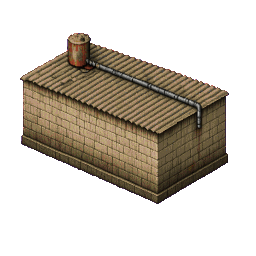
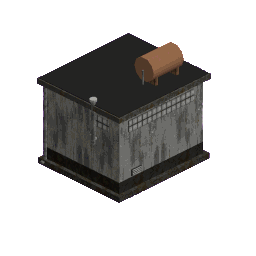
Sprchy: betonovy domek zvenku, jedna spolecna mistnost uvnitr
Zvenku byly sprchy otevrena budka z prken pro tri kabinky, uvnitr pritom pekna
kachlikova mistnost - nesedelo to k sobe. Ted je to sedy betonovy domek postaveny podle
mistnosti uvnitr (3,6 x 3,2 m): brizolitova omitka se zatekanim, tmavy sokl, plocha
betonova strecha s lepenkou a nadrzi na teplou vodu, pas luxferu pod strechou nad
kabinkami a ctverec luxferu z boku, zelene plechove dvere s dratenym sklem, smaltovana
cedule SPRCHY, zarovka v kosiku nad dvermi, kourovod od bojleru, okap, venkovni kohoutek
s kyblem a lavorem. Textury luxferu a omitky z Groku, sprity do Builderu (zepredu i
zezadu) podle noveho modelu.

Uvnitr uz zadne tri pohledy prepinane pres A/D: jedna spolecna mistnost pro vsechny
sprchy, A/D jen otaci hlavou; pres luxfery ve dne prosvita svetlo, zarovka u stropu;
mista k uklidu jsou vsechna dosazitelna od dveri (blockclean: vse uklizeno z jednoho mista).

diff --git a/PRODUCT.md b/PRODUCT.md
@@ -58,8 +58,14 @@ you look over your shoulder: one guest too many on the map, staff procedures tha
 | Builder with isometric map, guests walking on it | ✅ | the "extra guest" uncanny event; `crt_map_panel.gd` draws the ground and buildings once into a static layer and only the living things each frame; smooth zoom at the cursor, pan inertia, minimap (click to go), hover card, dust puffs; undo (Ctrl+Z or the toolbar) takes back today's builds with a full refund; `builder_module.gd`: Grok splash, flat cool toolbar, sliding catalogue cards, info card |
 | Economy, power/water/sewage/waste balance | 🟡 | numbers want a balance pass |
 | Guest needs, moods, activities, reviews | ✅ | six archetypes (Quiet Guy, Drunk, Cheap Chick, Tramps, Family, Mushroom Pickers) with different needs and favourite facilities; bookings arrive as letters in their own voice |
-| Visible guest agents in the 3D camp | ✅ | |
+| Visible guest agents in the 3D camp | ✅ | they open the door and step in and out of the buildings (`scripts/attractions/door_anim.gd`); a family is one figure per two (the sprite is a father and his boy) |
+| Guests using the places | ✅ | the campfire (`scripts/attractions/campfire.gd`: fuel that burns down, logs thrown on, sparks and smoke, guests on the benches drinking, sausages on sticks, the tramp's guitar), the lake slide (`slide_ride.gd`: queue, climb, slide, splash, wade out), the nohejbal court (`pitch_play.gd`: juggling alone, a rally over the net, a missed ball fetched), and indoors the pub, bistro and Jednota (`scripts/food/service_life.gd`: at the tables and on the bar stools with mugs and plates, browsing the racks) |
+| Counter minigames for extra money | ✅ | click the tap, the pass or the till in the room (`scripts/food/`): the pub tap (left pulls beer, right pushes foam; hladinka / snyt / mliko by the guest's taste; a tip for a proper pour, sent back when wrong), the bistro pass (tickets with pictures of the plate, plates from the stack, the bell; a tip when quick), the Jednota till (key the total, the crank, count the change from the drawer; no overcharging, undercharging and extra change are the camp's loss); only for the guests the simulation has inside, on top of the passive takings (`orders.gd`) |
+| Lodging numbers | ✅ | per kind (tents 1, 2.., cabins 1.., caravans 1..): T1 / C2 / V1 on the key fobs (coloured by kind), the TAB plan and the Builder badges; in the camp a board on a stake in front of each tent and a blue enamel plate by the door of each cabin and caravan (`scripts/lodging_signs.gd`); a cabin or caravan is let whole (its free beds are not free) |
+| Caravan (2x1) | ✅ | Lv1 2 beds / Lv2 3 / Lv3 4 (upgrades from the brochure inside): the cheapest bed with a roof and the most beds per tile, but less comfort than a cabin, needs power, wears faster; model after the Builder sprites (awning, chairs and table, fairy lights, aerial, steps, twin axle); inside the dinette that makes up into the bed, kitchenette, bunks (`scripts/caravan_interior.gd`) |
+| Arrivals on screen | ✅ | dotted rings at the right edge, one per party on the way, filling as they come; green and breathing at the barrier with a red ring of patience (`scripts/ui/arrival_rings.gd`) |
 | Upkeep: wear, breakdowns, service/repair (hold R), crew | ✅ | Camp Status > Upkeep; toilet and shower blocks are cleaned and fixed by hand inside |
+| Shower house | ✅ | a concrete block (`building_models._showers`): grey roughcast, a strip of glass blocks over the cubicles, a green steel door with the SPRCHY plate and a caged bulb, the hot-water tank on the flat roof, the boiler's flue, a tap with a bucket outside; inside one shared room for all three showers (A/D turn the head, no sub-rooms), the daylight through the glass blocks; Builder sprites front and back from the model |
 | Electricity bills, power cut, UPS game over | ✅ | |
 | Weather cycle (7 states) with gameplay effect | ✅ | rain closes outdoor attractions; the red anomaly at night |
 | Camp Status > Reviews | ✅ | |
@@ -106,7 +112,7 @@ you look over your shoulder: one guest too many on the map, staff procedures tha
 | Reception building | ✅ | built from the office's plan (`scripts/reception/reception_layout.gd`): plank cabin, porch, RECEPCE sign, the door and both windows where they are inside; windows glow at night with the lights on |
 | Curtains, desk lamp, daylight | ✅ | `scripts/reception/curtain.gd` in the office and the back room (whose window looks out over the gate lane, a second portal); the green desk lamp switches; a sun beam with shadows through the office window |
 | Phone | ✅ | modelled after its close-up; a key lifts the handset; incoming calls ring in the room and outside, CALL on the display |
-| Toilets | ✅ | two single stalls as outside, a proper bowl in each; scrubbing close-up (`scripts/scrub_minigame.gd`): the filth wears off where you drag the brush, CLEAN %, flush, SPOTLESS |
+| Toilets | ✅ | two single stalls as outside, each behind its own door: you go into the one whose door you walk up to (no A/D between them); scrubbing close-up (`scripts/scrub_minigame.gd`): the filth wears off where you drag the brush, CLEAN %, flush, SPOTLESS |
 | Reception (CRT, radio, light switch, phone, noticeboard) | ✅ | everything usable glints under the cursor (pixel glints, Grok) and gets the gloved finger; the window is a portal into the real camp (`_update_window_portal`: an off-axis camera where your eye is, laid over the reception building); the monitor is curved glass (`materials/crt_glass.gdshader`; the desk overlay and the mouse use the same barrel, `CRT_CURVE`); the radio opens a new game with "radiojedna" |
 | The back room and sleep | ✅ | through the door in the office: bed, little TV (programme, test card after midnight), VFD alarm clock, curtains, wardrobe; sleep only at night with nothing out there: lie down, the TV, eyelids, the night passes, the alarm; any key skips |
 | The cursor | ✅ | a gloved hand (Grok): carved arrow, pointing finger, flat palm for doors and the way out, fist while working |
@@ -115,7 +121,9 @@ you look over your shoulder: one guest too many on the map, staff procedures tha
 | Tent / cabin interiors, upgrades | ✅ | closed rooms (the tent is a proper A-frame) |
 | Service interiors | ✅ | the sewer hatch says whether there is a leak; R crawls in only then |
 | Pipe crawl (sewer repair) | ✅ | generated network, paper map without your position, no turning around, coordinates and landmarks (brick sections, scratches, the red shoe), clamp the leak; climbing down, the map unfolds, the torch hand, water running away from the leak, drips, look back (S); the thing and its director (scripts/pipes/pipe_director.gd): never shown the first time down, glimpses the second, the hunt after |
-| Interior look-around (restricted) | ✅ | you stay put and turn your head: cursor at the screen edge or the arrow keys; tent ±48°, services ±65°, office ±70°, cabin ±72° |
+| Interior look-around (restricted) | ✅ | you stay put and turn your head: cursor at the screen edge, the arrow keys or A/D; tent ±48°, services ±65°, cabin ±72°, the office and the caravan all the way round |
+| The torch | ✅ | a weak narrow beam with a dim halo that trails a turn a beat behind; the hand holding it low at the bottom right (Grok sprite, the torch pointing into the scene); in a dark room (lights off, no power, a tent at night) it comes on by itself and shines where the cursor points (`scripts/ui/interior_torch.gd`) |
+| Cabin windows | ✅ | the room matches the cabin outside (front door and windows, back window, the side window or the bathroom door by level); the windows look out into the real camp (off-axis cameras) |
 
 ### Atmosphere and the uncanny
 
